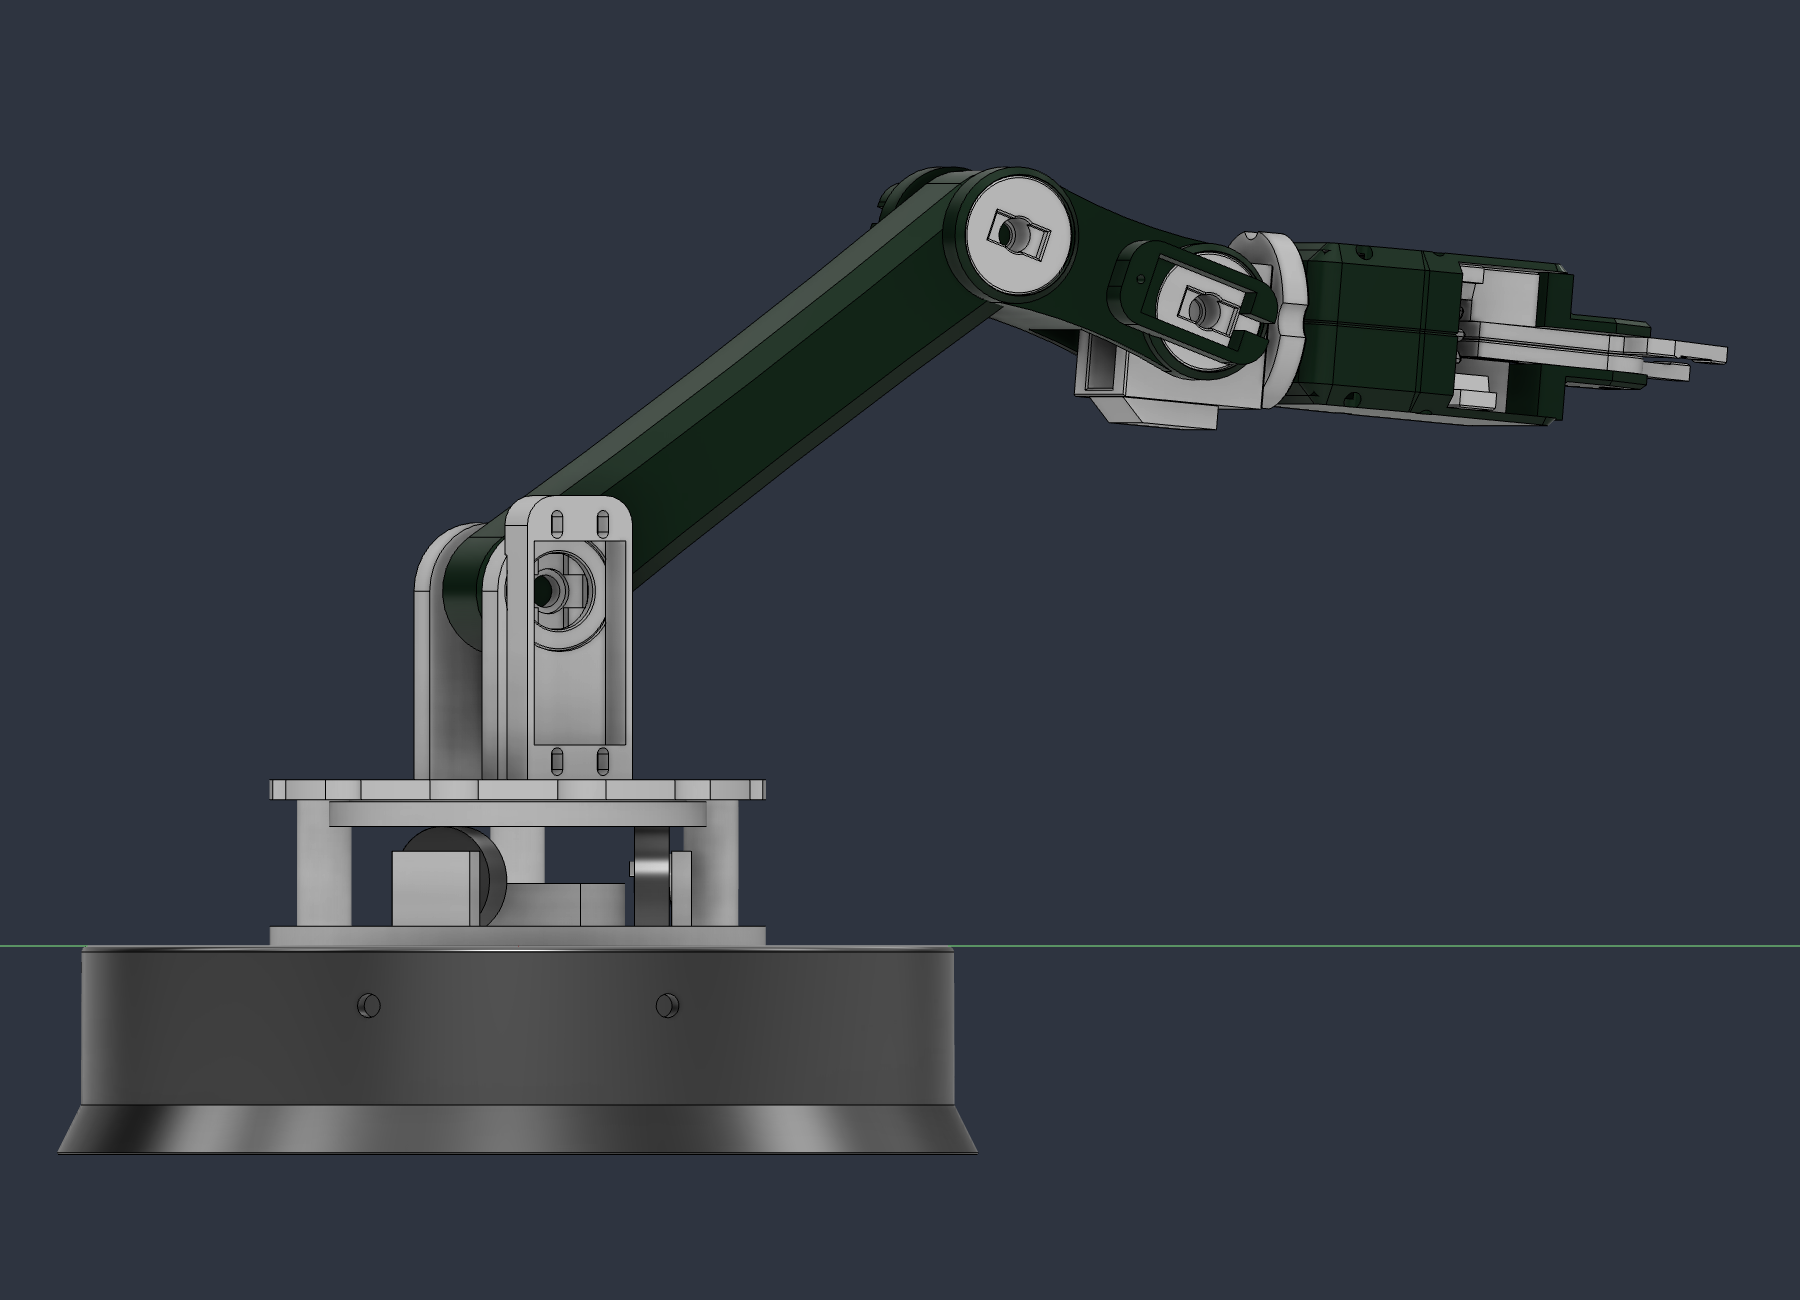
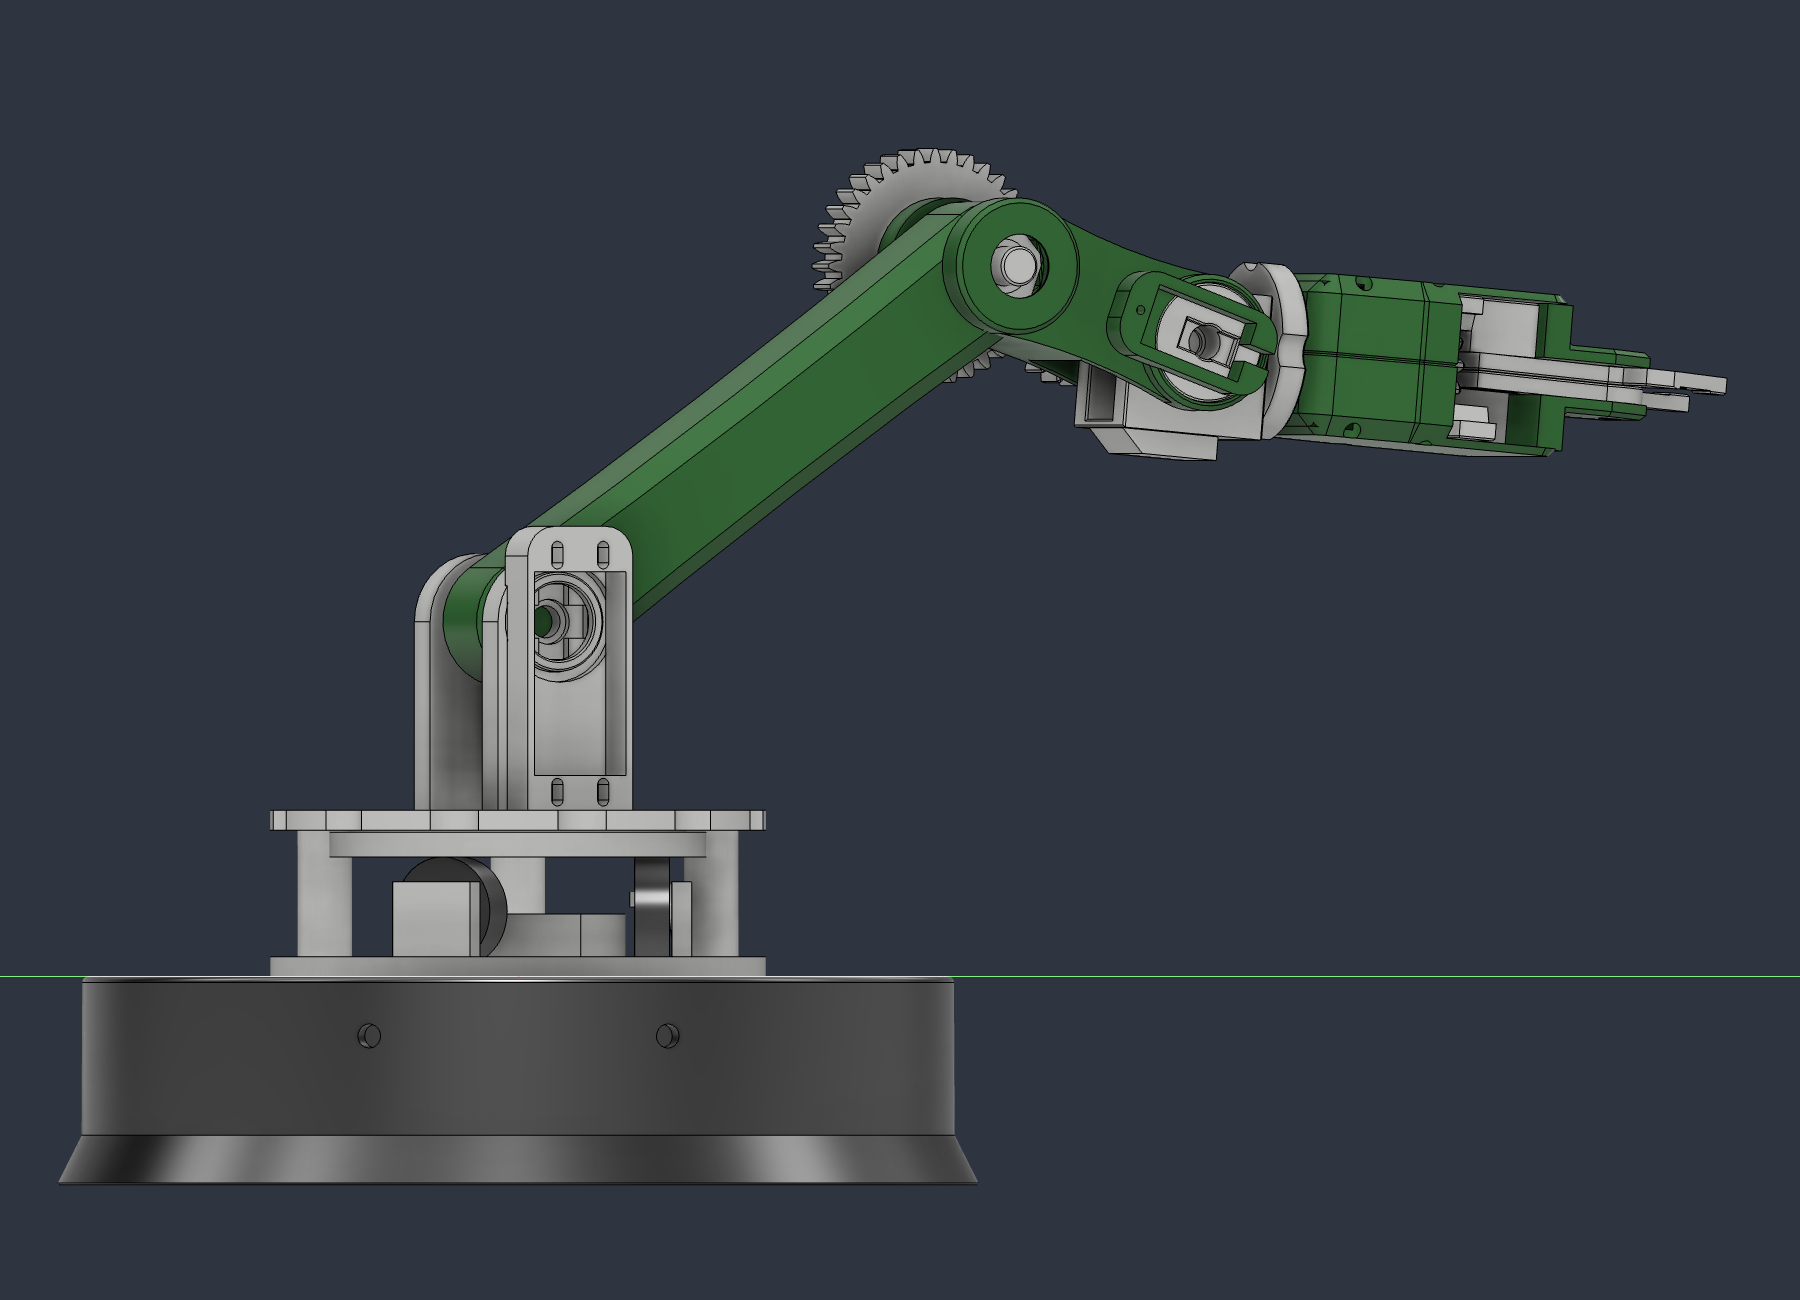
preview: put the geared elbow in the picture
_preview_arm still posed J3 as two wrist_hubs, so every render since the
reduction landed showed an elbow with no drive in it - the same failure mode
as the turret riding on nothing before the three 608ZZ were added to this
file. The geometry was right and the picture was lying.

j3_gear, j3_pinion, j3_axle and j3_servo_cap are placed now, each as the
images of its own axes in the forearm's frame rather than a sequence of
"rotate 90 degrees" steps - that shorthand is how the J2 preview bearings
ended up tangential instead of radial.

And two asserts this file would not otherwise have, because a render will
happily show a confident-looking gearbox that cannot turn:
- both gear axes must come out along the forearm's X. A spur pair on
  parallel shafts is the entire premise.
- the two centres must be J3_PAIR.centre_distance apart, measured
  PERPENDICULAR to the axes. In the assembly the two origins are 34.88 mm
  apart in 3D because the parts' local origins sit at opposite ends of the
  8 mm tooth band; the centre distance is the perpendicular component and it
  is 33.95.

Verified in the posed assembly: gear concentric with the idler axle to
0.0000 mm, axes parallel to a dot of 1.000000, centre distance 33.950.

Renders in docs/robotarm/: arm_iso, arm_side, arm_front, arm_top, plus
elbow_axis / elbow_wide looking down the elbow axis at the mesh.

Claude-Session: https://claude.ai/code/session_01QtFotKr4zARhFtdpZXNs1m

Changed region(s): [[0.0311, 0.0923, 0.9644, 0.7692], [0.0311, 0.8308, 0.3422, 0.9231], [0.3733, 0.8308, 0.56, 0.9231]]

diff --git a/models/robotarm/_preview_arm.py b/models/robotarm/_preview_arm.py
@@ -81,7 +81,12 @@ def run(_context: str):
     design.timeline.moveToEnd()
     need = ['turntable_stator', 'turntable_ring', 'shoulder_bracket', 'shoulder_hub',
             'wrist_hub', 'upper_arm', 'forearm', 'wrist_roll', 'wrist_rotator',
-            'pruner_shell', 'pruner_rack', 'pruner_blade', 'gripper_pinion']
+            'pruner_shell', 'pruner_rack', 'pruner_blade', 'gripper_pinion',
+            # The geared elbow. Without these J3 renders as a bare pivot and
+            # the picture quietly shows an arm that has no elbow drive - the
+            # same way it once showed a turret riding on nothing because the
+            # three 608ZZ were missing from this file.
+            'j3_gear', 'j3_pinion', 'j3_axle', 'j3_servo_cap']
     missing = [n for n in need if 'robotarm_' + n not in keep]
     assert not missing, (
         'not in the document: %r - run _check_ledger BATCH 0,1,2 first' % missing)
@@ -224,10 +229,58 @@ def run(_context: str):
     placed.append(('upper_arm', add(C('upper_arm'), M_ua)))
     placed.append(('forearm', add(C('forearm'), M_fa)))
     for sx, tag in ((+1, 'p'), (-1, 'm')):
-        placed.append(('hub_j3' + tag, add(C('wrist_hub'),
-                                           mul(M_fa, place_hub(sx, -l2, fa_in)))))
         placed.append(('hub_j4' + tag, add(C('wrist_hub'),
                                            mul(M_fa, place_hub(sx, 0.0, fa_in)))))
+
+    # ---- the geared elbow ---------------------------------------------------
+    # J3 IS NOT TWO wrist_hubs ANY MORE. The drive side carries j3_gear, the
+    # idler side j3_axle running in a 608ZZ, and the servo hangs outboard on
+    # j3_servo_cap over a standoff. Each frame is written as the images of the
+    # part's own axes in the forearm's, because "rotate it 90 degrees" is how
+    # the J2 preview bearings ended up tangential instead of radial.
+    po, fr = gv('fa_plate_out'), gv('fa_free')
+    so_ = gv('fa_j3_standoff')
+    y_pin = -l2 + gv('fa_j3_centre')
+    face = gv('jp_face')
+
+    def frame(origin, ax, ay, az):
+        m = M3()
+        m.setWithCoordinateSystem(P3(*origin), VEC(*ax), VEC(*ay), VEC(*az))
+        return m
+
+    # j3_gear: its +Z runs OUTBOARD on -X, and its z 0 is the disc's inner
+    # face, standing fa_free off the plate.
+    M_gear = frame((-(po + fr), -l2, 0.0), (0, 0, 1), (0, 1, 0), (-1, 0, 0))
+    # j3_pinion: coplanar teeth, so its seat face is the gear band's OUTBOARD
+    # end and its +Z runs back inboard.
+    M_pin = frame((-(po + fr + face), y_pin, 0.0), (0, 0, 1), (0, -1, 0), (1, 0, 0))
+    # j3_axle: hex face on the upper arm's socket FLOOR, journal running out.
+    M_axle = frame((gv('ua_half_x') - gv('ua_socket_d'), -l2, 0.0),
+                   (0, 0, 1), (0, -1, 0), (1, 0, 0))
+    # j3_servo_cap: seats on the standoff's end face; its local X runs along
+    # the arm and its +Z outboard.
+    M_cap = frame((-(po + so_), y_pin, 0.0), (0, 1, 0), (0, 0, -1), (-1, 0, 0))
+
+    for nm, mm_ in (('j3_gear', M_gear), ('j3_pinion', M_pin),
+                    ('j3_axle', M_axle), ('j3_servo_cap', M_cap)):
+        placed.append((nm, add(C(nm), mul(M_fa, mm_))))
+
+    # THE ASSERT THE BEARING PREVIEW DID NOT HAVE. Both gears must come out
+    # with their axes along the forearm's X - that is what a spur pair on
+    # parallel shafts means - and the pinion must land one centre distance
+    # from the elbow. A frame written with a sign flipped still renders as a
+    # confident-looking picture of a gearbox that cannot turn.
+    for nm, mm_ in (('j3_gear', M_gear), ('j3_pinion', M_pin)):
+        ax = mm_.getAsCoordinateSystem()[3]
+        assert abs(abs(ax.x) - 1.0) < 1e-9 and abs(ax.y) < 1e-9 and abs(ax.z) < 1e-9, (
+            '%s comes out with its axis at (%.3f, %.3f, %.3f) - a spur pair on '
+            'parallel shafts has both axes along X' % (nm, ax.x, ax.y, ax.z))
+    _o_g = M_gear.getAsCoordinateSystem()[0]
+    _o_p = M_pin.getAsCoordinateSystem()[0]
+    _d = math.hypot(_o_g.y - _o_p.y, _o_g.z - _o_p.z)
+    assert abs(_d - gv('fa_j3_centre')) < 1e-6, (
+        'the gears are %.3f mm apart and the pair is cut for %.3f'
+        % (_d * 10, gv('fa_j3_centre') * 10))
     placed.append(('wrist_roll', add(C('wrist_roll'), M_roll)))
     placed.append(('wrist_rotator', add(C('wrist_rotator'), M_rot)))
 
